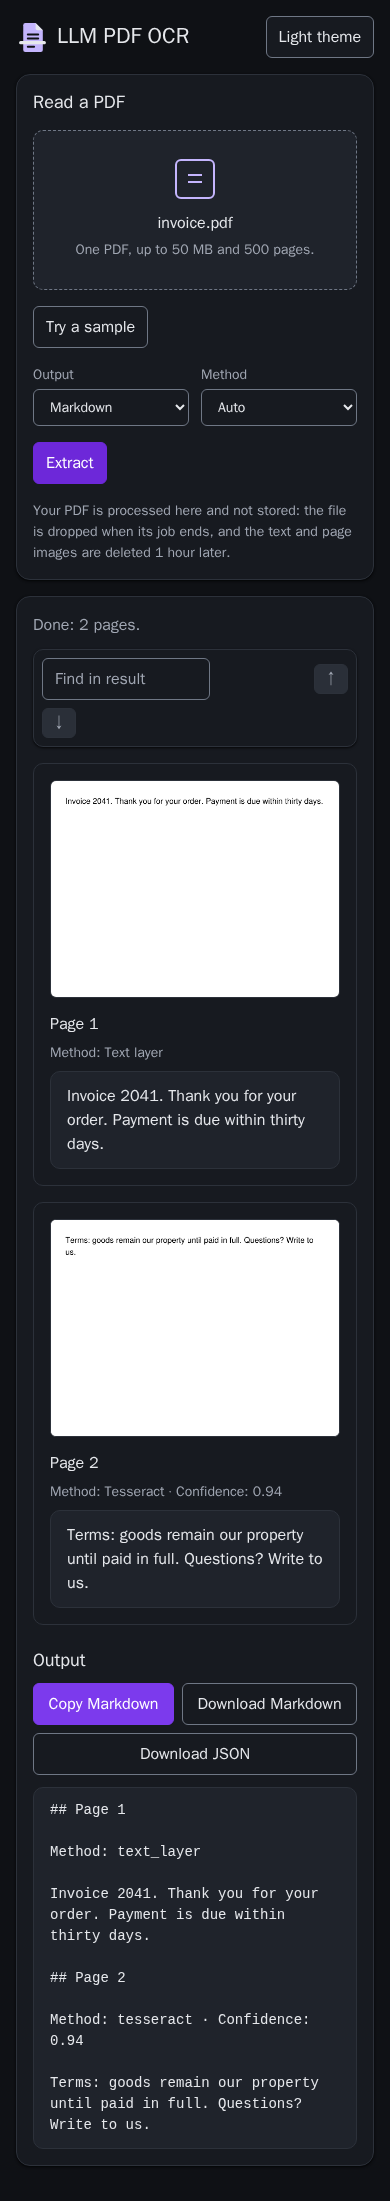
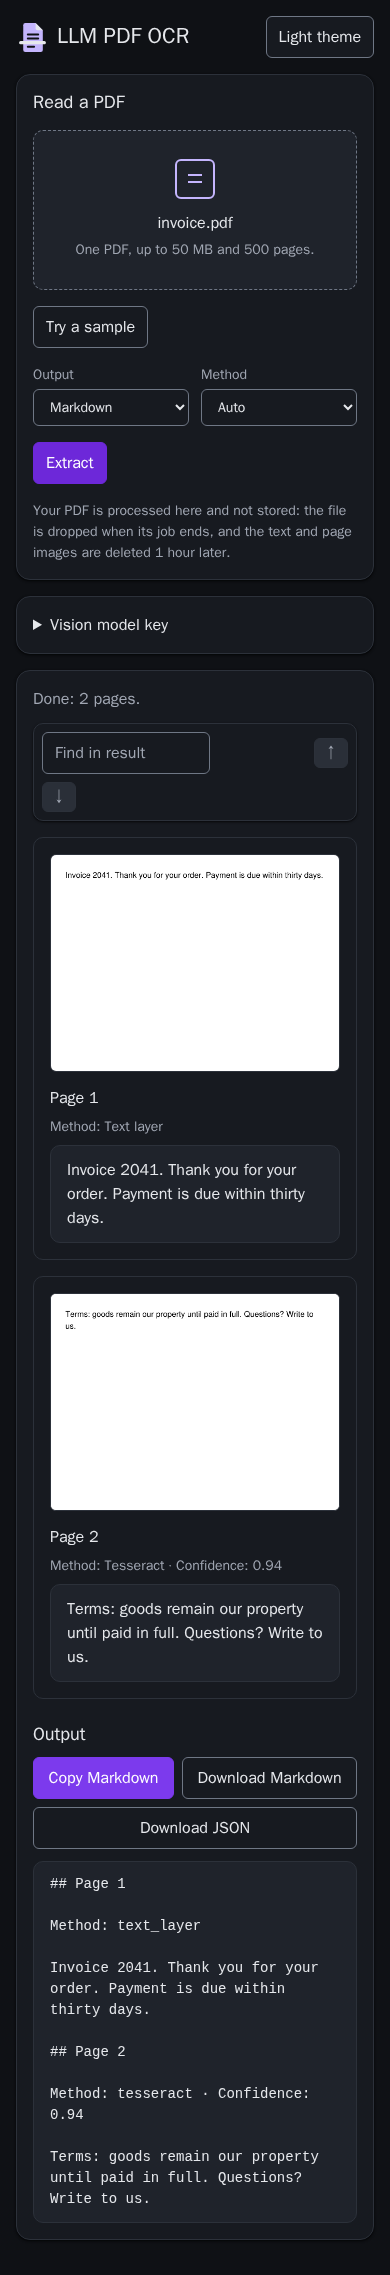
Docs: README Public demo section, API credential headers, refreshed screenshots (EST-6767) (#55)
Add the README Public demo section (free text/Tesseract reads, vision per page with a demo code or the visitor's key, where the key lives, preset table with gaps), a credential-header table in docs/api.md scoped to the page-vision route, a CHANGELOG entry, and regenerated screenshots and demo GIF.

diff --git a/README.md b/README.md
@@ -149,6 +149,26 @@ Everything is an environment variable; none is required.
 
 Vision setup, with vLLM, Ollama and cloud examples, is in [Vision model backend](docs/vision-backend.md).
 
+## Public demo
+
+This service can run as a public demo without spending the operator's money on anonymous visitors. Reading a PDF's text layer and scanning it with Tesseract need no model, so they are free and always on. A public demo leaves the server's own `OCR_LLM_*` vision backend off; vision is then the one method that costs money, and a visitor turns it on for one page at a time with a demo code or their own provider key.
+
+- **Free, no key or code:** `text_layer` and `tesseract` reads, through the web page, `POST /v1/extract` or a job. A page with no usable text layer is still read by Tesseract and returned, with a note when the result is doubtful.
+- **Needs a demo code or key:** a page that `auto` read with Tesseract and failed, or scored under `OCR_LOW_CONFIDENCE`, is marked `needs_vision` with the reason. On the web page, press **Read with a vision model** on that page; the key panel below the form holds the credentials. Through the API, call `POST /v1/jobs/{id}/pages/{n}/vision` for that page.
+- **Demo code:** the operator hands one out. The page sends it as `X-Demo-Code`; the service forwards it to the operator's internal demo gateway, which holds the provider key and the code's budget. Demo codes are offered only when the operator sets `DEMO_GATEWAY_URL` (`demo_available` in `/v1/capabilities`).
+- **Your own key:** choose a preset on the page and paste your key, or send `X-Model-Preset` with `X-Model-Key`. Only a preset id is accepted; a request can never name a base URL.
+- **Where the key lives:** only in your browser, in `sessionStorage` by default or `localStorage` when you tick **Remember on this device**, and only in the request headers of the vision read. The service uses it for that one request and never stores or logs it. This applies to the page route only: `POST /v1/extract` and `POST /v1/jobs` always use the operator's own `OCR_LLM_*` backend and ignore the credential headers, so whole-document vision stays an operator setting.
+
+| Preset | `X-Model-Preset` | Vision model | Notes |
+|---|---|---|---|
+| OpenAI | `openai` | `gpt-5-nano` | Model name from OpenAI's documentation; not yet checked with a real key. |
+| OpenRouter | `openrouter` | `qwen/qwen3.7-flash` | No speech model (not used here). |
+| Synthetic | `synthetic` | `syn:small:vision` | No embeddings or speech model in its public catalog (neither is used here). |
+| Alibaba (DashScope intl) | `alibaba` | `qwen-vl-plus` | No OpenAI-compatible speech model (not used here); model name from Alibaba's documentation and not yet checked with a real key. |
+| Demo code | `demo` | `demo-vision` | Only when `DEMO_GATEWAY_URL` is set; the gateway holds the provider key. |
+
+This service uses only each preset's vision model. A preset that fails a real-key check is marked as a gap in this table. The page side of the panel is in [The web page](docs/web-page.md); the headers and the route are in [the API reference](docs/api.md).
+
 ## Performance
 
 Twenty freely licensed PDFs (born-digital, two-column, tables, forms, scans and poor scans) with reference text, in [`benchmarks/`](benchmarks/README.md). Results from `uv run python benchmarks/run.py`, in the run of 2026-11-16 with Tesseract 5.5.4 and, for the vision row, `qwen2.5vl:7b` served by a local Ollama on an Apple M4 Mac mini, committed in [`benchmarks/results/2026-11-16.md`](benchmarks/results/2026-11-16.md) (raw results in [`2026-11-16.json`](benchmarks/results/2026-11-16.json)), which also has the per-document rows. The results file does not record the machine.

diff --git a/docs/api.md b/docs/api.md
@@ -48,7 +48,15 @@ Jobs are held in the service's memory and run one at a time. The PDF is dropped 
 
 Reads page `n` of a `done` job, marked `needs_vision`, with a vision model, and replaces that page in the job's result: its `method` becomes `vision`, with the `model` and its `text`. The answer is the page as it now appears in the JSON result. The page is rendered again at 150 DPI from the PDF the job kept.
 
-The model comes from the request's credentials, used for this request only and never stored or logged: `X-Model-Preset` (a preset id from `GET /v1/capabilities`) with `X-Model-Key`, or `X-Demo-Code` for the `demo` preset. With none of them, the operator's own vision backend is used if one is configured.
+The model comes from the request's credentials, used for this request only and never stored or logged. With none of them, the operator's own vision backend is used if one is configured.
+
+| Header | Send it with | Meaning |
+|---|---|---|
+| `X-Model-Preset` | with `X-Model-Key`, or with `X-Demo-Code` for `demo` | A preset id from `GET /v1/capabilities`; the preset fixes the provider and model. The `demo` preset takes a demo code, not a key. |
+| `X-Model-Key` | `X-Model-Preset` | The visitor's key for that provider, for this request only. |
+| `X-Demo-Code` | alone, or with `X-Model-Preset: demo` | A demo code, forwarded to the operator's demo gateway. |
+
+Only this route reads those headers. `POST /v1/extract` and `POST /v1/jobs` always use the operator's own `OCR_LLM_*` vision backend and ignore them, so a whole document cannot be read on a visitor's key or demo code.
 
 ```bash
 curl -X POST -H 'X-Model-Preset: openai' -H "X-Model-Key: $KEY" localhost:5000/v1/jobs/<id>/pages/1/vision

diff --git a/CHANGELOG.md b/CHANGELOG.md
@@ -12,6 +12,7 @@ All notable changes to this project are recorded here. Add new entries under Unr
 
 ### Changed
 
+- README: a new "Public demo" section says what is free (the text layer and Tesseract, with no key), what needs a demo code or a visitor's own provider key (reading one marked page with a vision model), where the key lives, and which preset and vision model each provider offers, with the gaps in that table. `docs/api.md` names the three credential headers, says that only `POST /v1/jobs/{id}/pages/{n}/vision` reads them, and that `/v1/extract` and `/v1/jobs` ignore them.
 - README benchmark: the vision row is measured. One run on 2026-11-16 with `qwen2.5vl:7b` served by a local Ollama scored text 0.786, Table F1 0.682, 30.78 seconds a page and no failed pages; the results are in `benchmarks/results/2026-11-16.md` and `.json`. The Performance text and Known limits now give these numbers.
 
 ### Fixed
